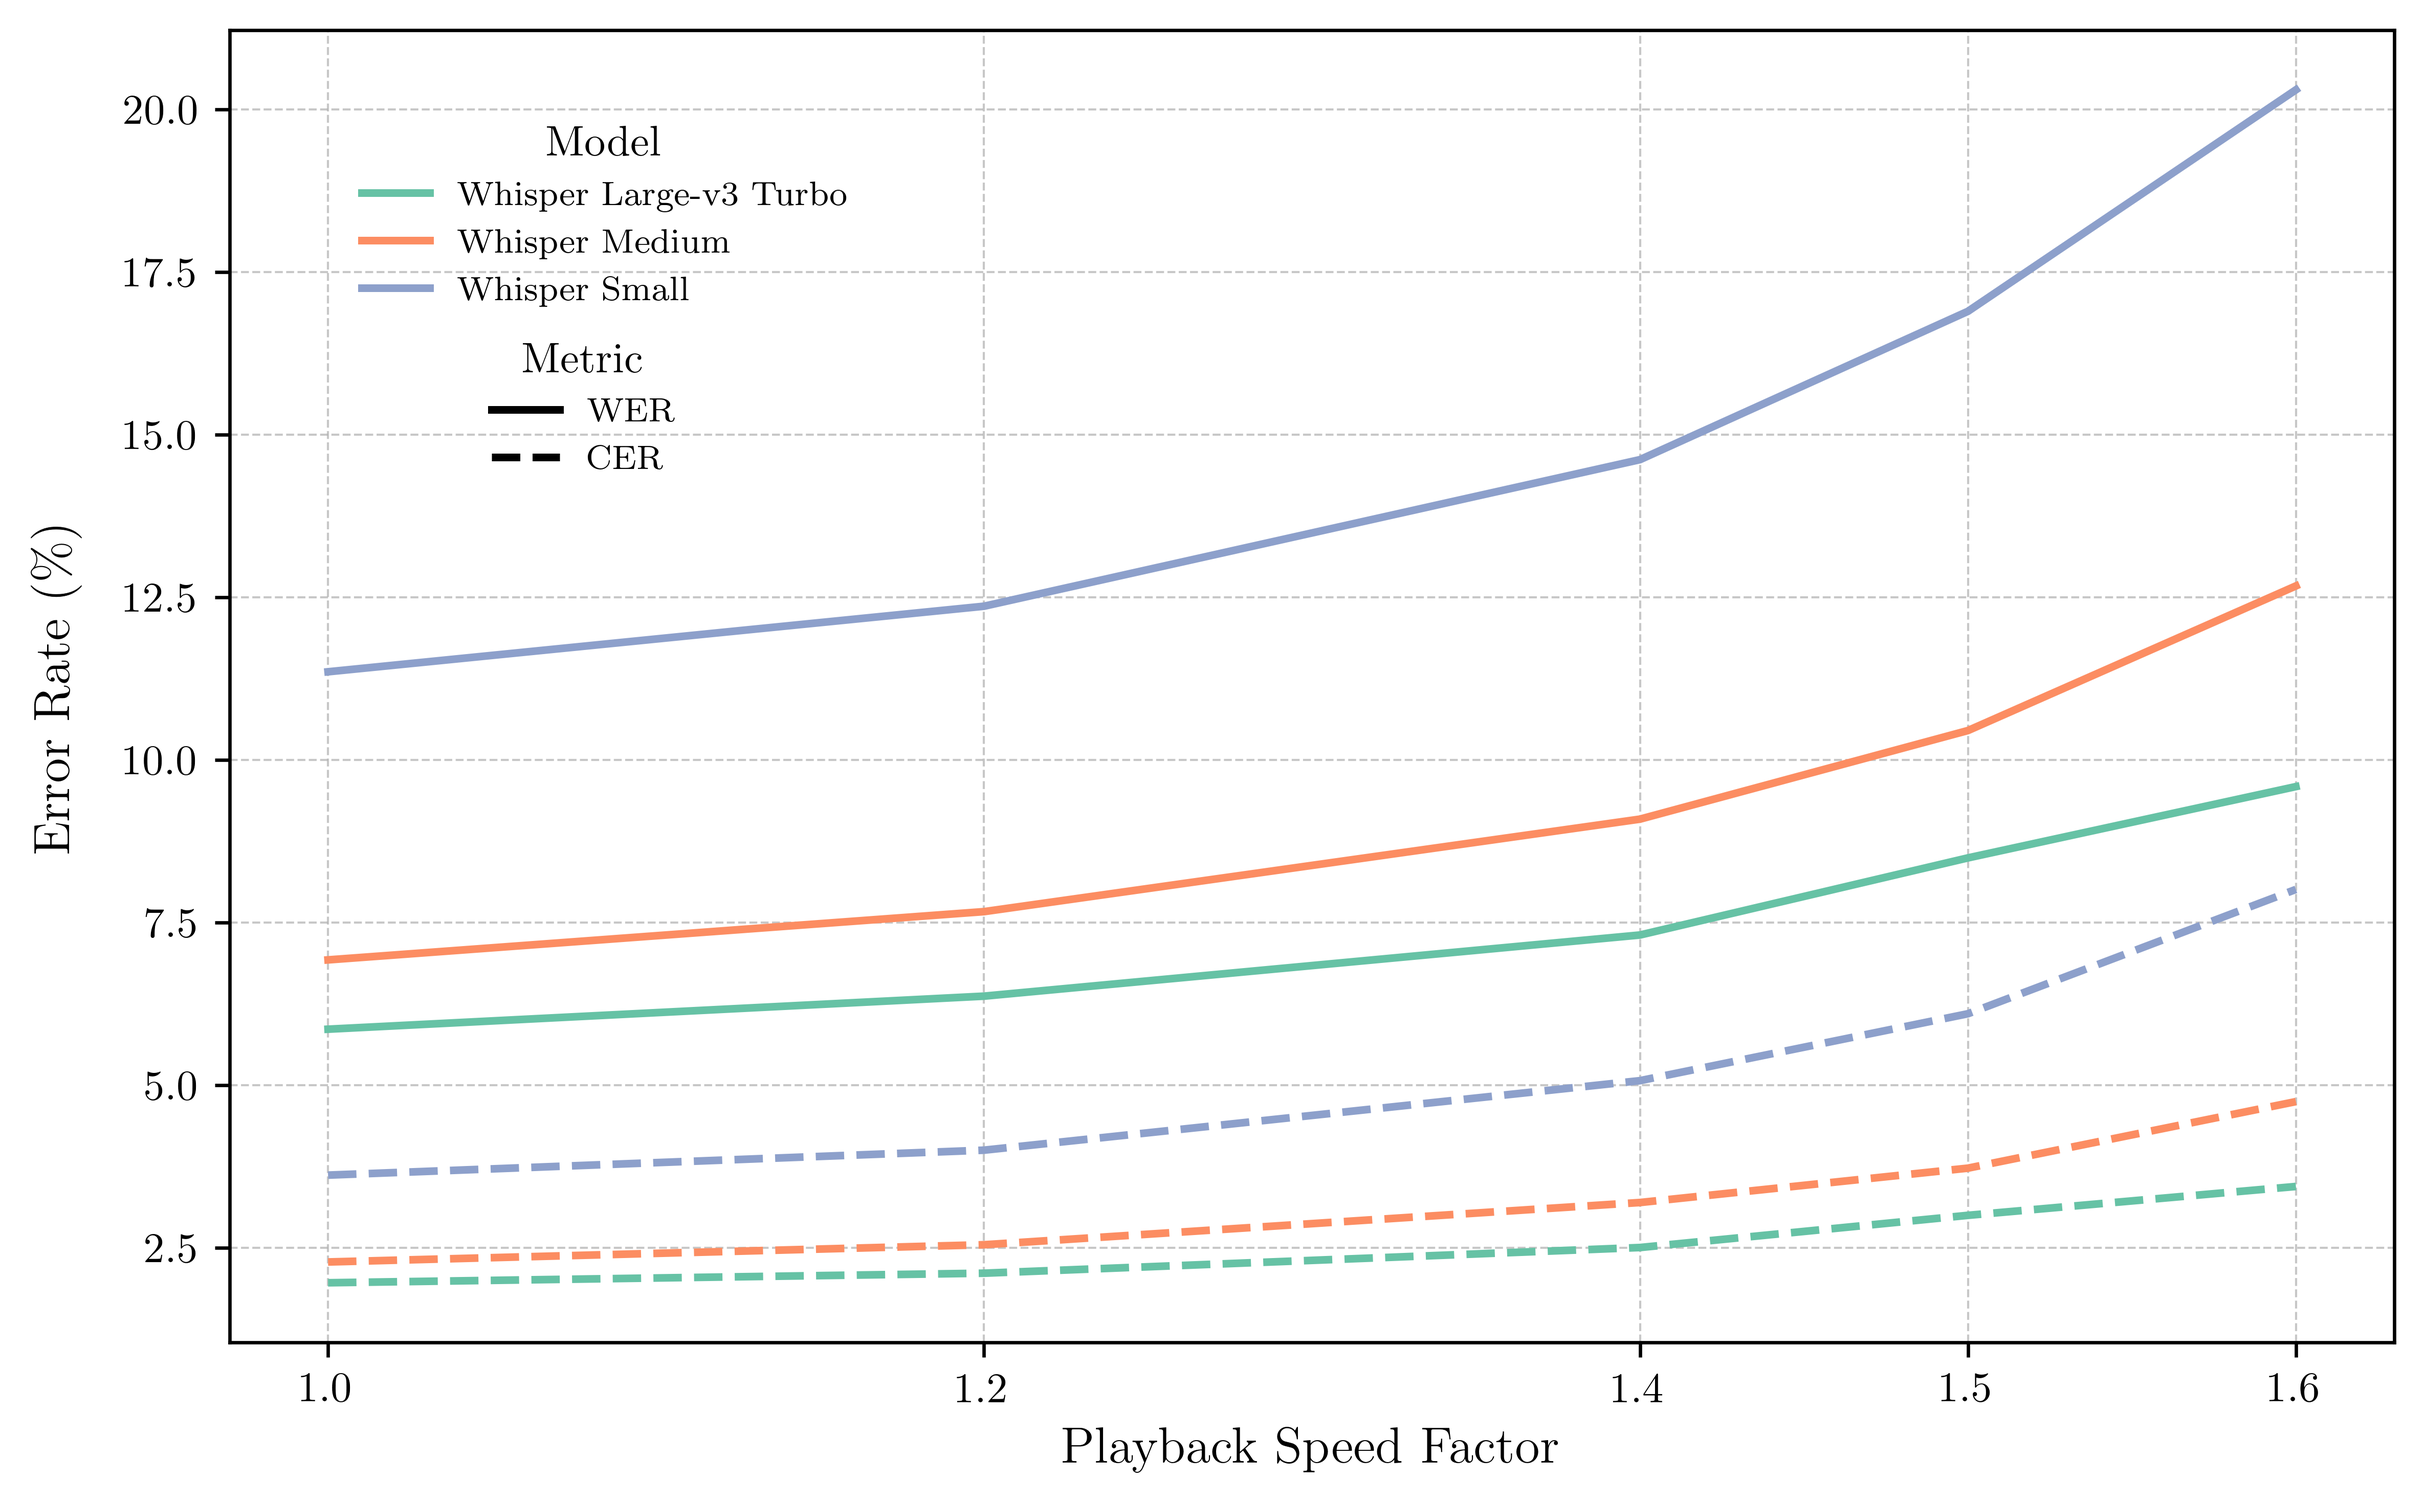
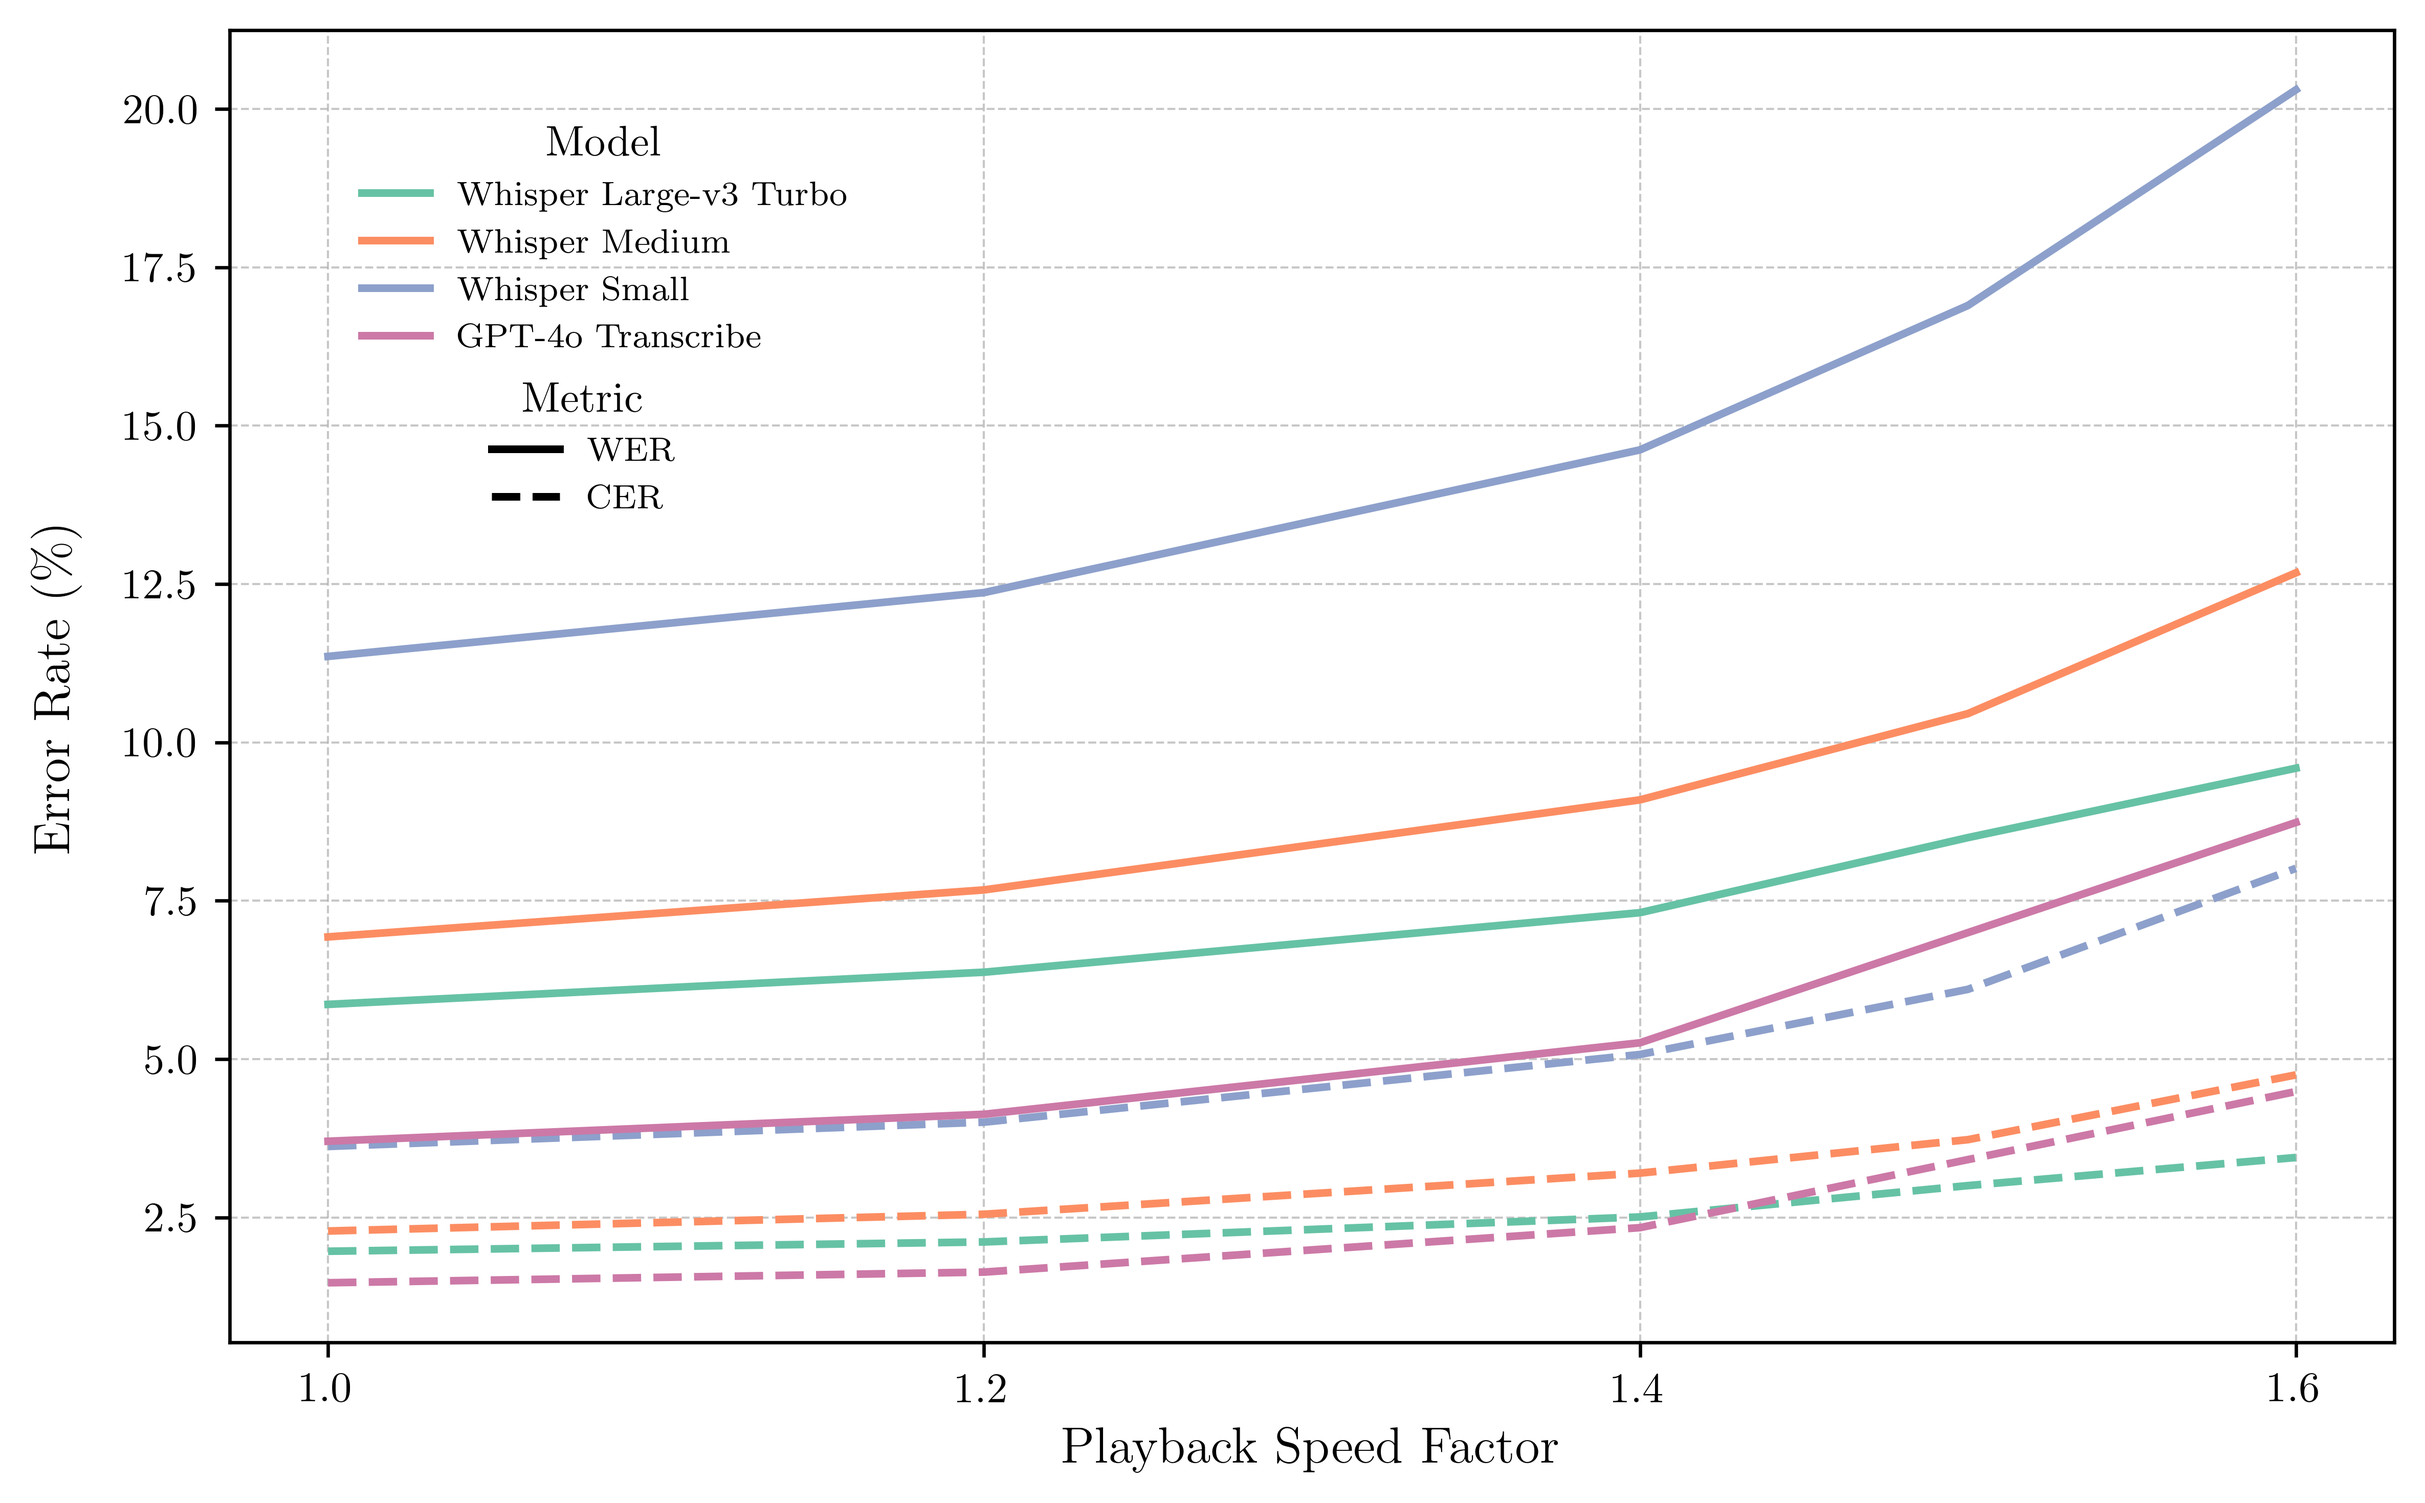
final

diff --git a/scripts/combined_visualize_results.py b/scripts/combined_visualize_results.py
@@ -24,54 +24,50 @@ DATA_FILES = {
     "Whisper Large-v3 Turbo": "results/whisper-large-v3-turbo-full.csv",
     "Whisper Medium": "results/whisper-medium-full.csv",
     "Whisper Small": "results/whisper-small-full.csv",
+    "GPT-4o Transcribe": "results/gpt-4o-transcribe-full.csv",
 }
 MODEL_COLOURS = {
     "Whisper Large-v3 Turbo": "#66C2A5",
     "Whisper Medium": "#FC8D62",
     "Whisper Small": "#8DA0CB",
+    "GPT-4o Transcribe": "#CC79A7",
 }
-METRIC_STYLE = {"wer_macro": "solid", "cer_macro": "dashed"}
+METRIC_STYLE = {"wer_macro": "solid"}
 
 agg = {}
 for model, path in DATA_FILES.items():
     df = pd.read_csv(path)
-    df = df[df["speedup"] != 3.0]  # Exclude speedup factor of 3.0
-    df_mean = (
-        df.groupby("speedup")[["wer_macro", "cer_macro"]].mean().sort_index() * 100
-    )
+    df = df[df["speedup"] <= 2.5]
+    df_mean = df.groupby("speedup")[["wer_macro"]].mean().sort_index() * 100
     agg[model] = df_mean
 
-bottom_max = 60  # 0–60%
-top_min, top_max = 80, 200
-# Proportional height ratios for matched slopes:
-height_ratios = [(top_max - top_min), bottom_max]
+bottom_max = 25  # show 0–20% in bottom
+top_min, top_max = 60, 150  # top panel shows 80–200%
+height_ratios = [1, 0.8]  # top region half the height of bottom
 
-# Create figure
+# Create figure with adjusted margins
 fig = plt.figure(figsize=(8, 6))
-# add extra bottom margin to separate xlabel
-fig.subplots_adjust(bottom=0.18, top=0.93, left=0.1, right=0.95)
+fig.subplots_adjust(left=0.1, right=0.95, bottom=0.12, top=0.93)
+
 gs = gridspec.GridSpec(2, 1, height_ratios=height_ratios, hspace=0.1)
 ax_top = fig.add_subplot(gs[0])
 ax_bot = fig.add_subplot(gs[1], sharex=ax_top)
 
+# Plot WER only
 for model, df in agg.items():
     color = MODEL_COLOURS[model]
     ax_bot.plot(
         df.index, df["wer_macro"], color=color, linestyle=METRIC_STYLE["wer_macro"]
     )
-    ax_bot.plot(
-        df.index, df["cer_macro"], color=color, linestyle=METRIC_STYLE["cer_macro"]
-    )
     ax_top.plot(
         df.index, df["wer_macro"], color=color, linestyle=METRIC_STYLE["wer_macro"]
-    )
-    ax_top.plot(
-        df.index, df["cer_macro"], color=color, linestyle=METRIC_STYLE["cer_macro"]
     )
 
 # Set axis limits
 ax_bot.set_ylim(0, bottom_max)
 ax_top.set_ylim(top_min, top_max)
+
+ax_top.set_yticks([60, 80, 100, 120, 150])
 
 # Hide x-axis labels & ticks on top subplot
 ax_top.tick_params(labelbottom=False, bottom=False)
@@ -89,53 +85,26 @@ ax_bot.plot((1 - d, 1 + d), (1, 1), **kwargs_bot)
 for ax in (ax_top, ax_bot):
     ax.grid(True, linestyle="--", linewidth=0.5, alpha=0.7)
 
-# Centered overall x-axis and y-axis labels with spacing
-fig.supxlabel("Playback Speed Factor", fontsize=12, y=0.05)
-fig.supylabel("Error Rate (\%)", fontsize=12, x=0.03)
+# Centered overall labels
+fig.supxlabel("Playback Speed Factor", fontsize=12, y=0.02)
+fig.supylabel("Word Error Rate (\%)", fontsize=12, x=0.03)
 
 # X-ticks on bottom only
 ax_bot.set_xticks(list(agg[next(iter(agg))].index))
 
-# Legends in top region
+# Single legend of models in top region
 model_handles = [
     Line2D([0], [0], color=MODEL_COLOURS[m], lw=1.8, label=m) for m in MODEL_COLOURS
 ]
-metric_handles = [
-    Line2D(
-        [0],
-        [0],
-        color="black",
-        lw=1.8,
-        linestyle=METRIC_STYLE["wer_macro"],
-        label="WER",
-    ),
-    Line2D(
-        [0],
-        [0],
-        color="black",
-        lw=1.8,
-        linestyle=METRIC_STYLE["cer_macro"],
-        label="CER",
-    ),
-]
-
-leg_models = ax_top.legend(
+ax_top.legend(
     handles=model_handles,
     title="Model",
-    frameon=False,
+    frameon=True,
     loc="upper left",
-    bbox_to_anchor=(0.05, 0.9),
-    borderpad=0.2,
-)
-ax_top.add_artist(leg_models)
-
-ax_top.legend(
-    handles=metric_handles,
-    title="Metric",
-    frameon=False,
-    loc="upper left",
-    bbox_to_anchor=(0.3, 0.9),  # moved slightly right
+    bbox_to_anchor=(0.06, 0.9),
     borderpad=0.2,
 )
 
-plt.show()
+# plt.show()
+# fig.tight_layout()
+plt.savefig("tldr.png", format="png", dpi=600, bbox_inches="tight")

diff --git a/scripts/visualize_results.py b/scripts/visualize_results.py
@@ -22,7 +22,7 @@ DATA_FILES = {
     "Whisper Large-v3 Turbo": "results/whisper-large-v3-turbo-fine.csv",
     "Whisper Medium": "results/whisper-medium-fine.csv",
     "Whisper Small": "results/whisper-small-fine.csv",
-    # "GPT-4o Transcribe": "results/gpt-4o-transcribe-fine.csv",
+    "GPT-4o Transcribe": "results/gpt-4o-transcribe-fine.csv",
 }
 
 # colour-blind-friendly palette → one colour per model
@@ -30,7 +30,7 @@ MODEL_COLOURS = {
     "Whisper Large-v3 Turbo": "#66C2A5",  # teal
     "Whisper Medium": "#FC8D62",  # salmon
     "Whisper Small": "#8DA0CB",  # lavender
-    # "GPT-4o Transcribe": "#CC79A7",  # lavender
+    "GPT-4o Transcribe": "#CC79A7",  # lavender
 }
 METRIC_STYLE = {"wer_macro": "solid", "cer_macro": "dashed"}
 
@@ -81,7 +81,7 @@ leg_metrics = ax.legend(
     title="Metric",
     frameon=False,
     loc="upper left",
-    bbox_to_anchor=(0.11, 0.78),  # adjust y until it looks right
+    bbox_to_anchor=(0.11, 0.75),  # adjust y until it looks right
     borderpad=0.2,
 )
 

diff --git a/README.md b/README.md
@@ -1,37 +1,45 @@
 # Does audio speedup affect speech recognition?
 
-This project contains code for running experiments on the robustness of (popular) speech-recognition models to sped-up audio. 
+This study rigorously examines how audio speedup affects the performance of state-of-the-art speech-to-text (STT) models. By benchmarking leading models such as OpenAI's Whisper and GPT-4o on audio data accelerated at varying factors, we quantify model robustness and delineate practical performance boundaries for high-speed transcription tasks.
 
-The core idea is to take a standard speech-to-text (STT) evaluation set, create copies of it at various speed factors, and then measure the degradation in transcription accuracy (WER/CER).
+Leveraging the FLEURS dataset as a controlled evaluation benchmark, the analysis systematically measures transcription accuracy degradation using standard metrics—primarily Word Error Rate (WER).
 
-## Experiment
+### TL;DR
 
-
-### Initial experiments
-Initial experiments were conducted on the Whisper model family. The FLEURS dataset was chosen for evaluation, specifically the test sets in English, Spanish, and Swedish to assess robustness across a small variety of languages. The evaluation metrics used were Word Error Rate (WER) and Character Error Rate (CER), calculated using [jiwer](https://github.com/jitsi/jiwer). The tested speedup factors were: 1.0, 1.5, 2.0, 2.5, and 3.0.
-
-An overview of the results is presented in the figure below.
+Transcription accuracy exhibits exponential degradation under increasing speed up, with performance blowing up quickly as you go beyond 1.5x. 
 
 <p align="center">
-  <img src="/results/assets/error_rate_speedup-1.png" alt="Error Rate vs Speedup" width="65%">
+  <img src="results/assets/tldr.png" alt="Error Rate vs Speedup" width="64%">
 </p>
 
 <p align="center">
-  <em>The error rate across three languages in the FLEURS test set, at increasing speedup factors. Error rates are averaged across language.</em>
+  <em>The word error rate across three languages in the FLEURS test set, at increasing speedup factors. Error rates are averaged across language.</em>
+</p>
+
+## Experiment
+
+### Coarse
+Experiments targeted the Whisper-model family (small, medium, and large-v3-turbo) and GPT-4o Transcribe, using the multilingual FLEURS test sets (English, Spanish, and Swedish). Transcription accuracy was assessed using Word Error Rate (WER) and Character Error Rate (CER), computed via [jiwer](https://github.com/jitsi/jiwer). Tested speedup factors included: 1.0, 1.5, 2.0, 2.5, and 3.0.
+
+Results summary:
+
+<p align="center">
+  <img src="results/assets/error_rate_speedup-1.png" alt="Error Rate vs Speedup" width="65%">
 </p>
 
 ---
 
-The detailed results are given in tables below.
+Detailed per-model results:
 <p align="center">
-  <img src="/results/assets/whisper-large-v3-turbo.png" width="23%">
-  <img src="/results/assets/whisper-medium.png" width="23%">
-  <img src="/results/assets/whisper-small.png" width="23%">
-  <img src="/results/assets/gpt-4o-transcribe.png" width="23%">
+  <img src="results/assets/whisper-large-v3-turbo.png" width="23%">
+  <img src="results/assets/whisper-medium.png" width="23%">
+  <img src="results/assets/whisper-small.png" width="23%">
+  <img src="results/assets/gpt-4o-transcribe.png" width="23%">
 </p>
 
 ### Finer resolution
-Given the exponential nature of the error rate I conduct more fine grained experiments around speedup factors 1.0 - 1.6. Otherwise the experiment is held the same (FLEURS test set, evaluation metrics, languages, ...).
+Given the observed exponential increase in WER beyond a specific threshold, further evaluations were conducted with finer granularity between 1.0 and 1.6 speedup factors. Conditions and evaluation protocols remained consistent with initial tests.
+
 
 <p align="center">
   <img src="/results/assets/error_rate_speedup-fine.png" alt="Error Rate vs Speedup" width="65%">
@@ -39,13 +47,20 @@ Given the exponential nature of the error rate I conduct more fine grained exper
 
 ---
 
-The detailed results are given in tables below.
+Detailed per-model results:
 <p align="center">
-  <img src="/results/assets/whisper-large-v3-turbo-fine.png" width="30%">
-  <img src="/results/assets/whisper-medium-fine.png" width="30%">
-  <img src="/results/assets/whisper-small-fine.png" width="30%">
+  <img src="results/assets/whisper-large-v3-turbo-fine.png" width="23%">
+  <img src="results/assets/whisper-medium-fine.png" width="23%">
+  <img src="results/assets/whisper-small-fine.png" width="23%">
+  <img src="results/assets/gpt-4o-transcribe-fine.png" width="23%">
 </p>
 
+Performance degradation exhibits clear exponential characteristics. Models experience a pronounced "accuracy cliff" around the 1.2x–1.3x speedup region. This behavior implies a critical acoustic distortion threshold, beyond which models fail to maintain effective feature extraction and recognition performance.
+
+### words per minute 
+
+Currently, the study uniformly applies speedup factors to audio samples, without explicitly controlling or measuring Words per Minute (WPM). However, speaker-dependent variability in baseline WPM could significantly influence model robustness to speed-induced artifacts. I'm considering
+decoupling speed-up factors from samples and instead plotting performance against raw WPM. 
 
 ## Recreating the results
 
